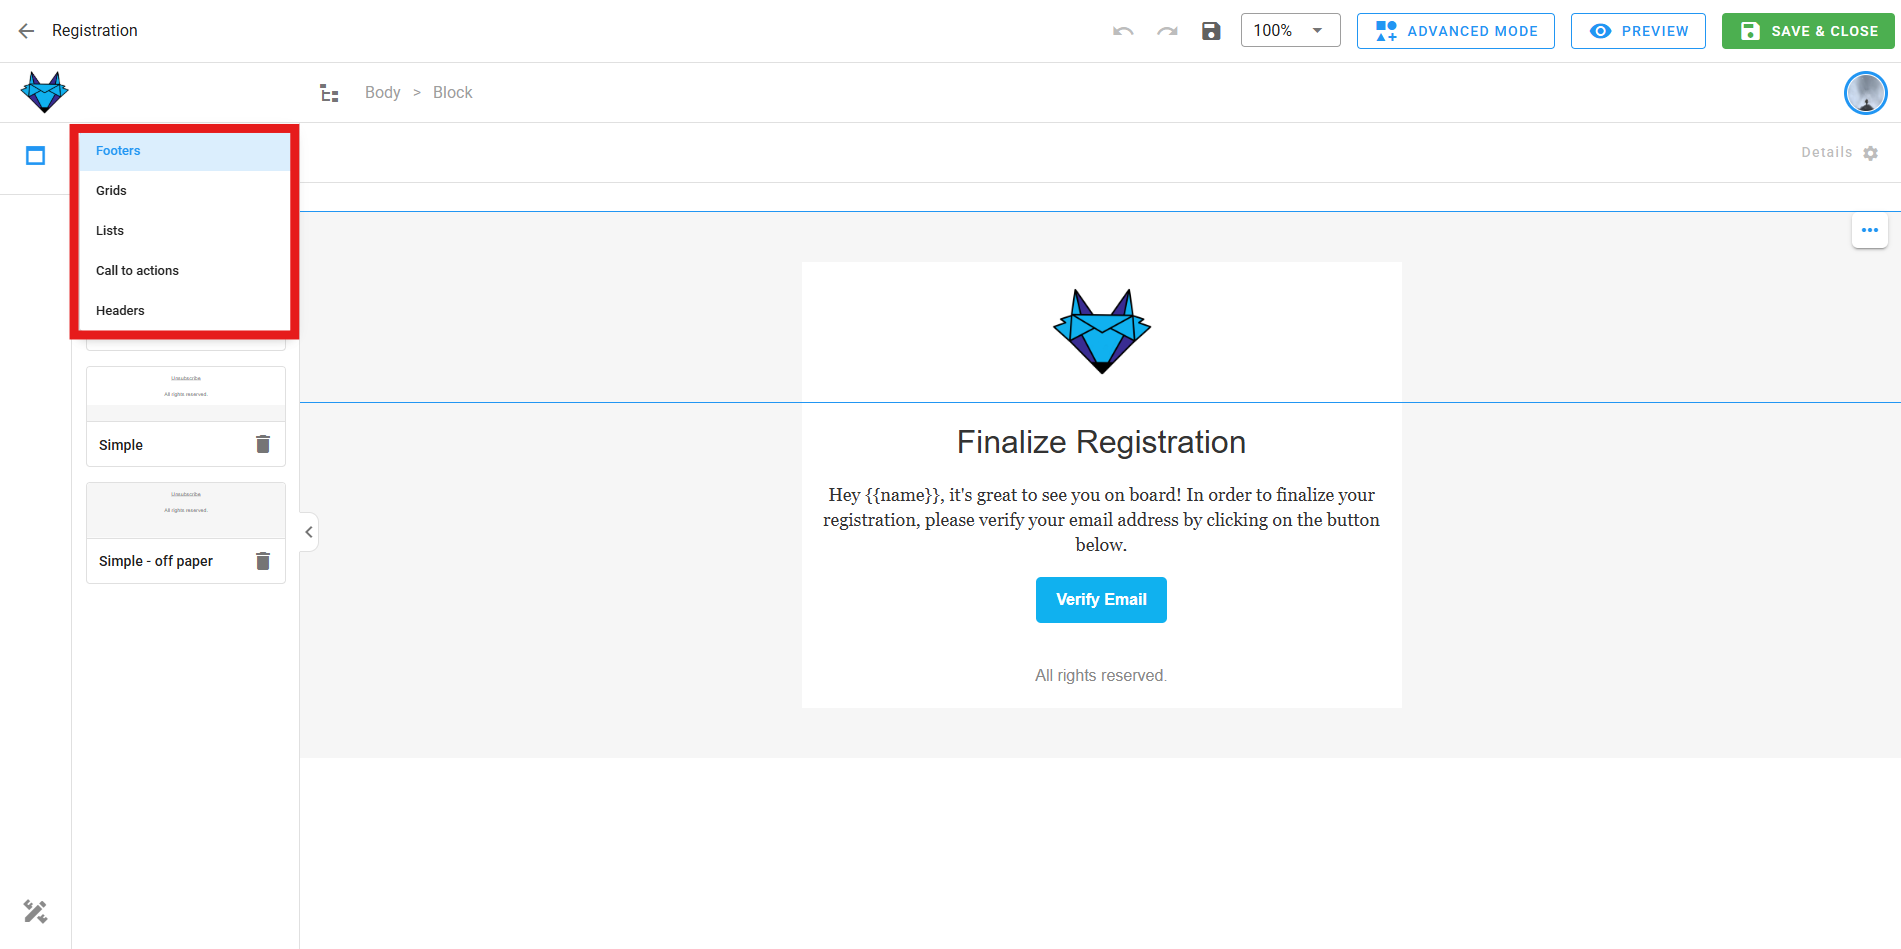
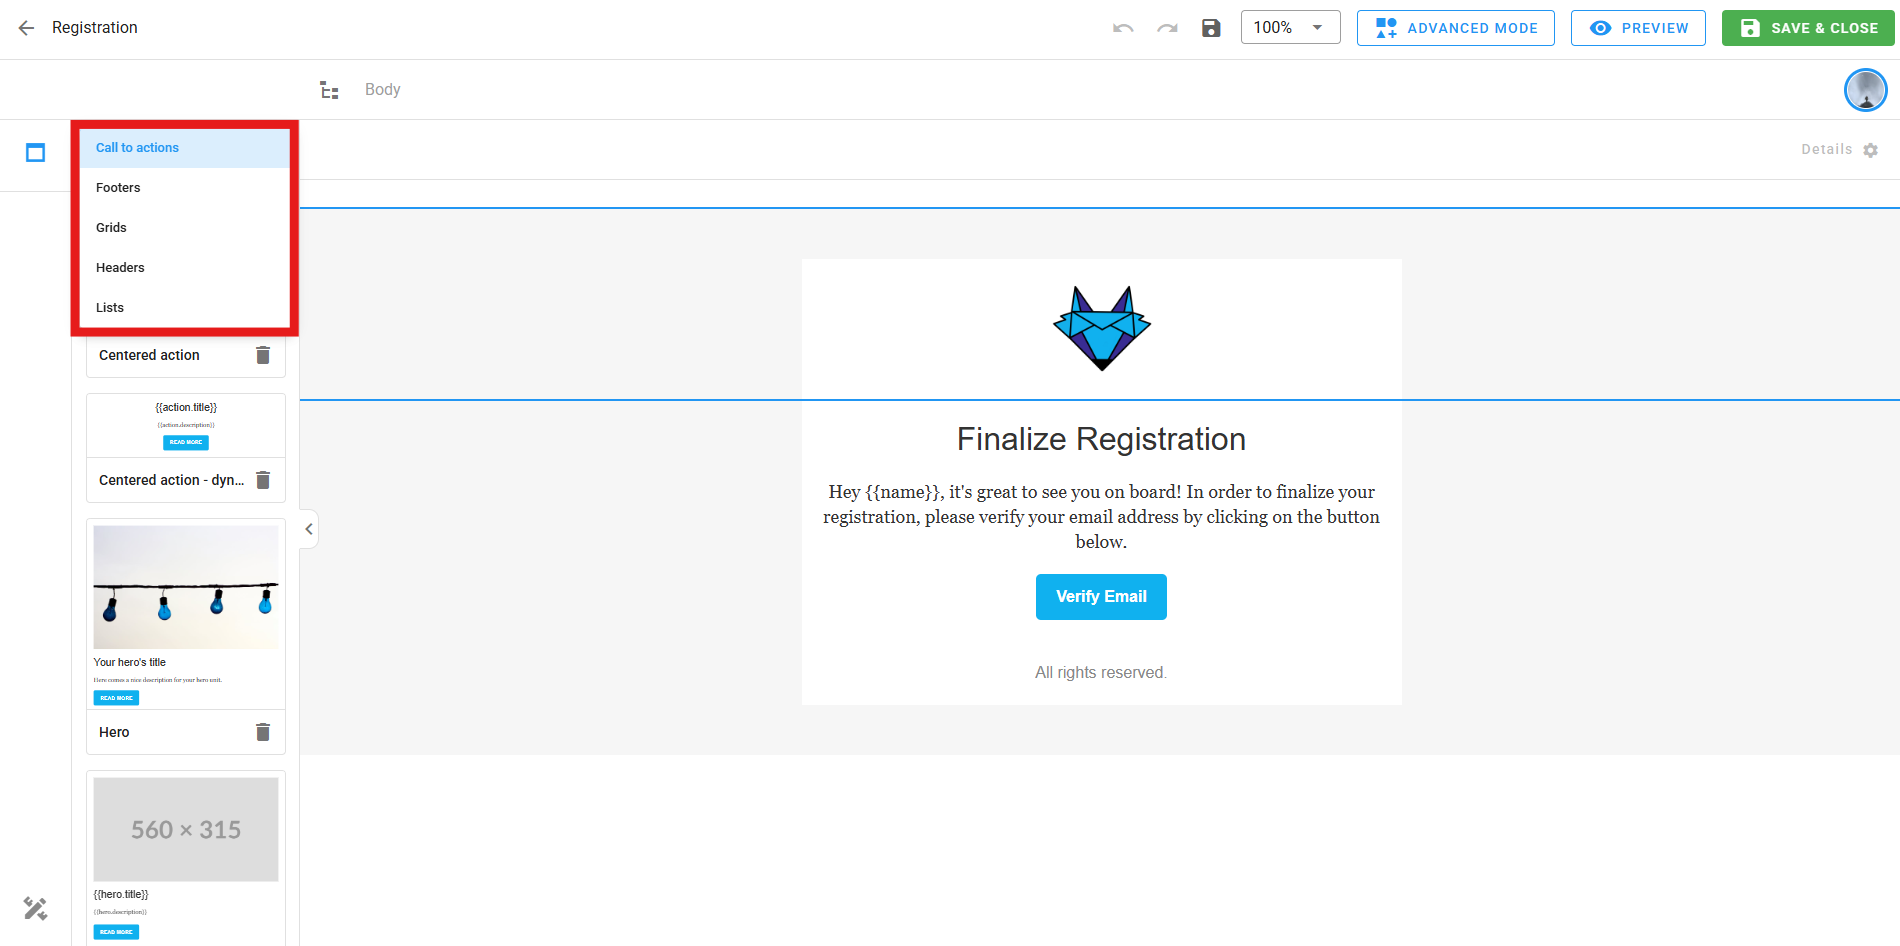
block categories organized alphabetically

diff --git a/docs/design-systems/blocks.md b/docs/design-systems/blocks.md
@@ -63,7 +63,7 @@ Block categories in the design system:
 
 ![A screenshot of the design system block categories lists.](./design-system-block-categories-list.webp)
 
-Block categories in the editor:
+Block categories in the editor (organized alphabetically for easy navigation):
 
 ![A screenshot of the design system block categories lists editor.](./design-system-block-categories-list-editor.webp)
 
